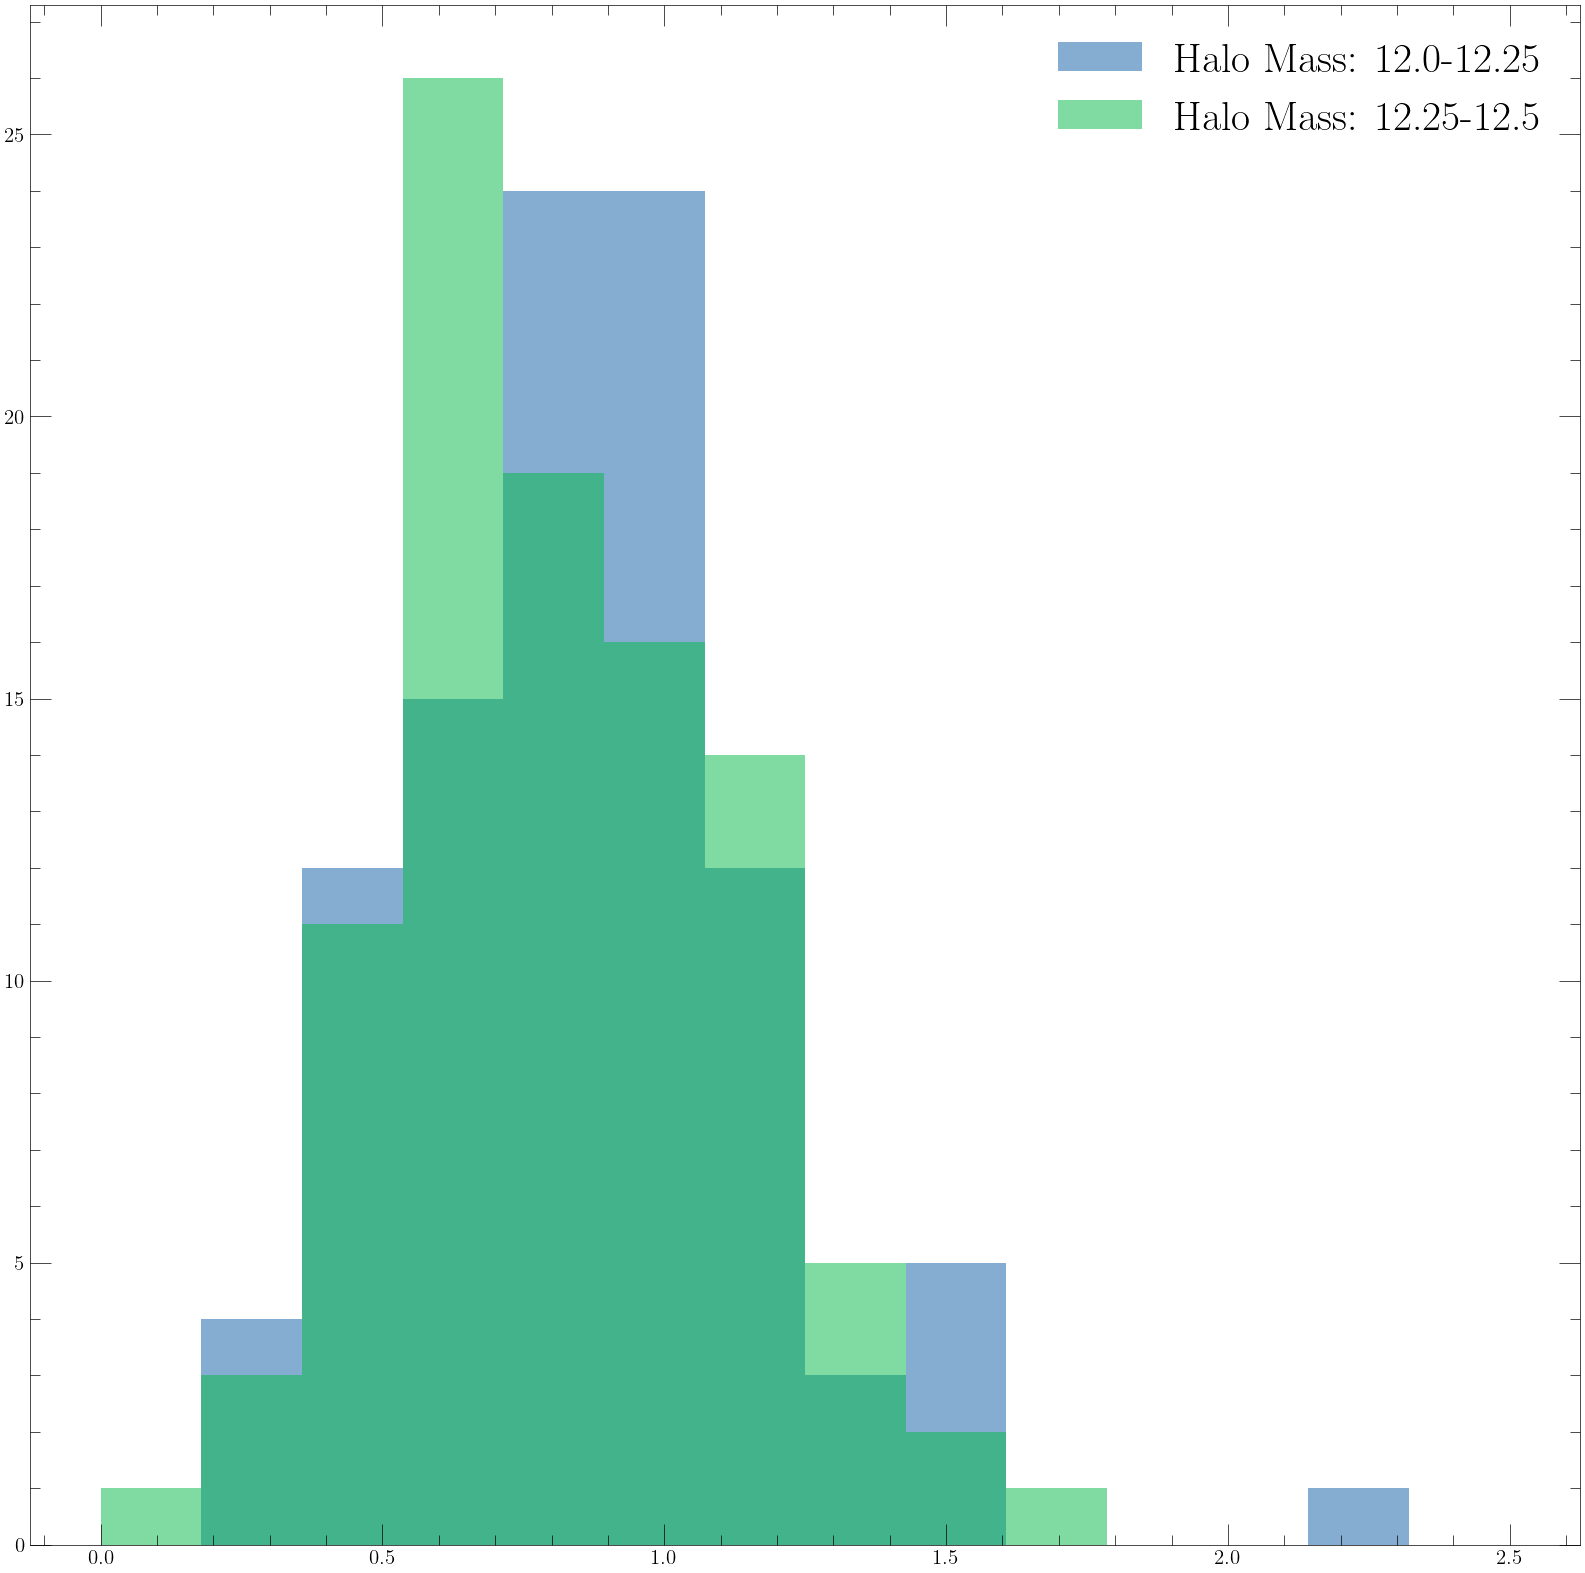
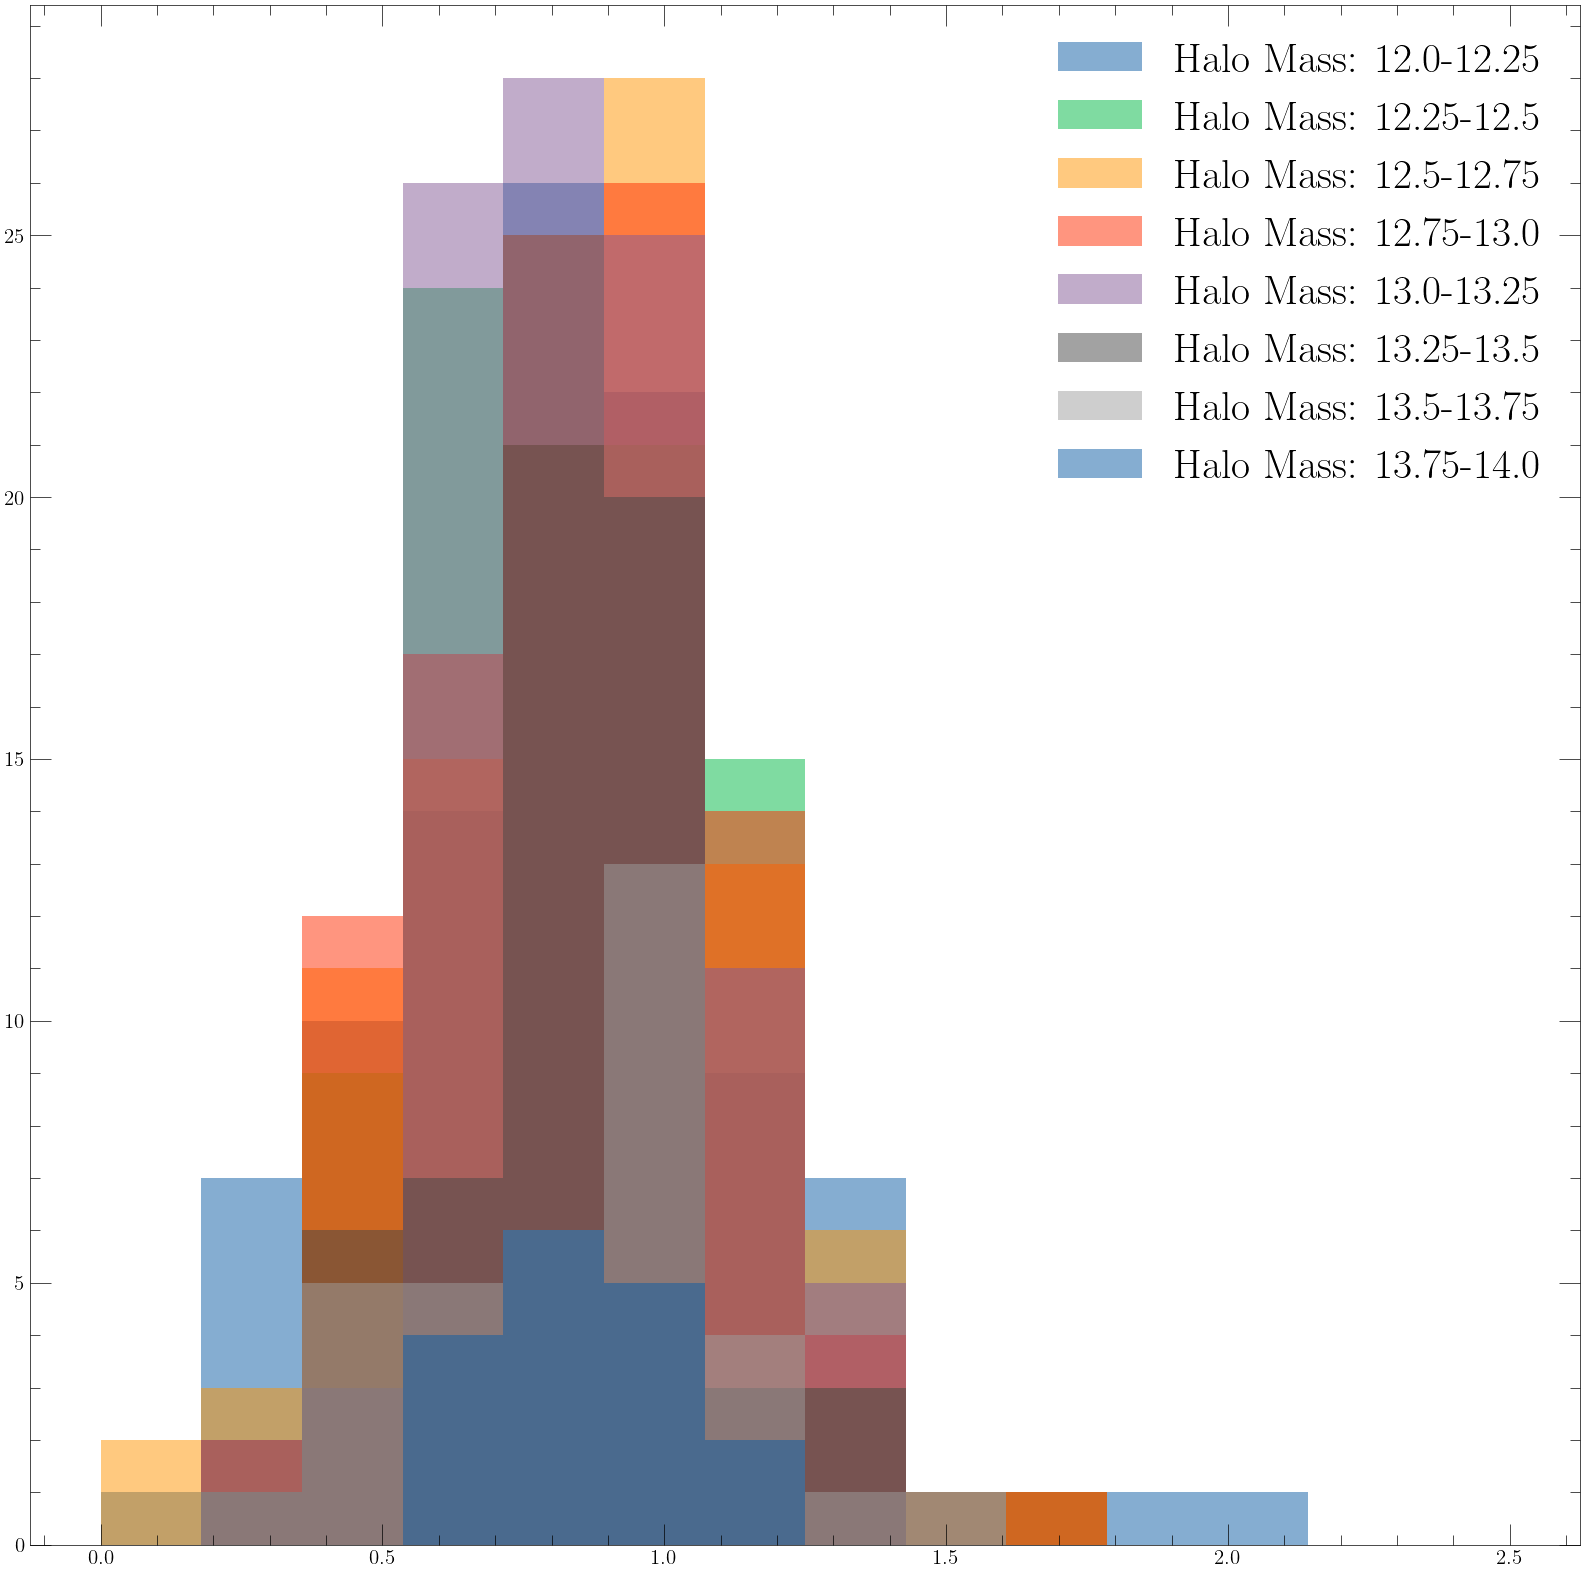
Add all bins to the jackknife cvirs and plots

diff --git a/Bolshoi/jack_bins_cvirs.py b/Bolshoi/jack_bins_cvirs.py
@@ -3,14 +3,14 @@ from loading import *
 a = np.arange(9)
 total = None
 
-bins = np.array([MASS_BINS[0], MASS_BINS[1], MASS_BINS[2]])
+bins = MASS_BINS
 
 for ind in range(bins.size - 1):
     m_ind = np.nonzero((data_points <= bins[ind + 1]) & (data_points > bins[ind]))[0]
     N_samples = min([len(m_ind), 100])
     r_ind = np.random.choice(m_ind, N_samples, replace=False)
 
-    # print(f"Samples: {N_samples}")
+    print(f"Samples: {N_samples}")
 
     main = r_ind.reshape(-1, 1)
     _M = data_points[r_ind].reshape(-1, 1)
@@ -20,7 +20,7 @@ for ind in range(bins.size - 1):
     opts = np.array([])
 
     for index in a:
-        # print(f"J: {index}")
+        print(f"{bins[ind]}-{bins[ind + 1]} -> J: {index}")
         for r in r_ind:
             M = data_points[r]
             Rvir = rvir[r] / 1000
@@ -60,23 +60,9 @@ for ind in range(bins.size - 1):
     else:
         total = np.vstack((total, main))  # type: ignore
 
-m_c = np.mean(total[:, 4:], axis=1) # type: ignore
+m_c = np.mean(total[:, 4:], axis=1)  # type: ignore
 total = np.column_stack((total, m_c))
 # total - id, M, actual cvir, opt cvir, 8 jacknifes (j_c_i), mean of j_c
 np.save(f"{CACHE_PATH}/jackknife_cvirs.npy", total)
 np.savetxt(f"{CACHE_PATH}/jackknife_cvirs.out", total)
-# print(total.shape)
-
-
-plt.hist(
-    total[:100, -1] / np.mean(total[:100, 3]),
-    label=f"Halo Mass: {np.log10(MASS_BINS[0])}-{np.log10(MASS_BINS[1])}",
-    alpha=0.5
-)
-plt.hist(
-    total[100:201, -1] / np.mean(total[100:201, 3]),
-    label=f"Halo Mass: {np.log10(MASS_BINS[1])}-{np.log10(MASS_BINS[2])}",
-    alpha=0.5
-)
-plt.legend()
-plt.savefig("figures/cvir_dispersion_hist.png")
+print(total.shape)

diff --git a/Bolshoi/loading.py b/Bolshoi/loading.py
@@ -9,5 +9,6 @@ z = np.load(f'{CACHE_PATH}/z_points.npy')
 rvir = np.load(f'{CACHE_PATH}/rvir_points.npy')
 rs = np.load(f'{CACHE_PATH}/rs_points.npy')
 arr_points = np.load(f'{CACHE_PATH}/arr_points.npy')
+print('Loaded Cache Files')
 
 np.random.seed(10)
